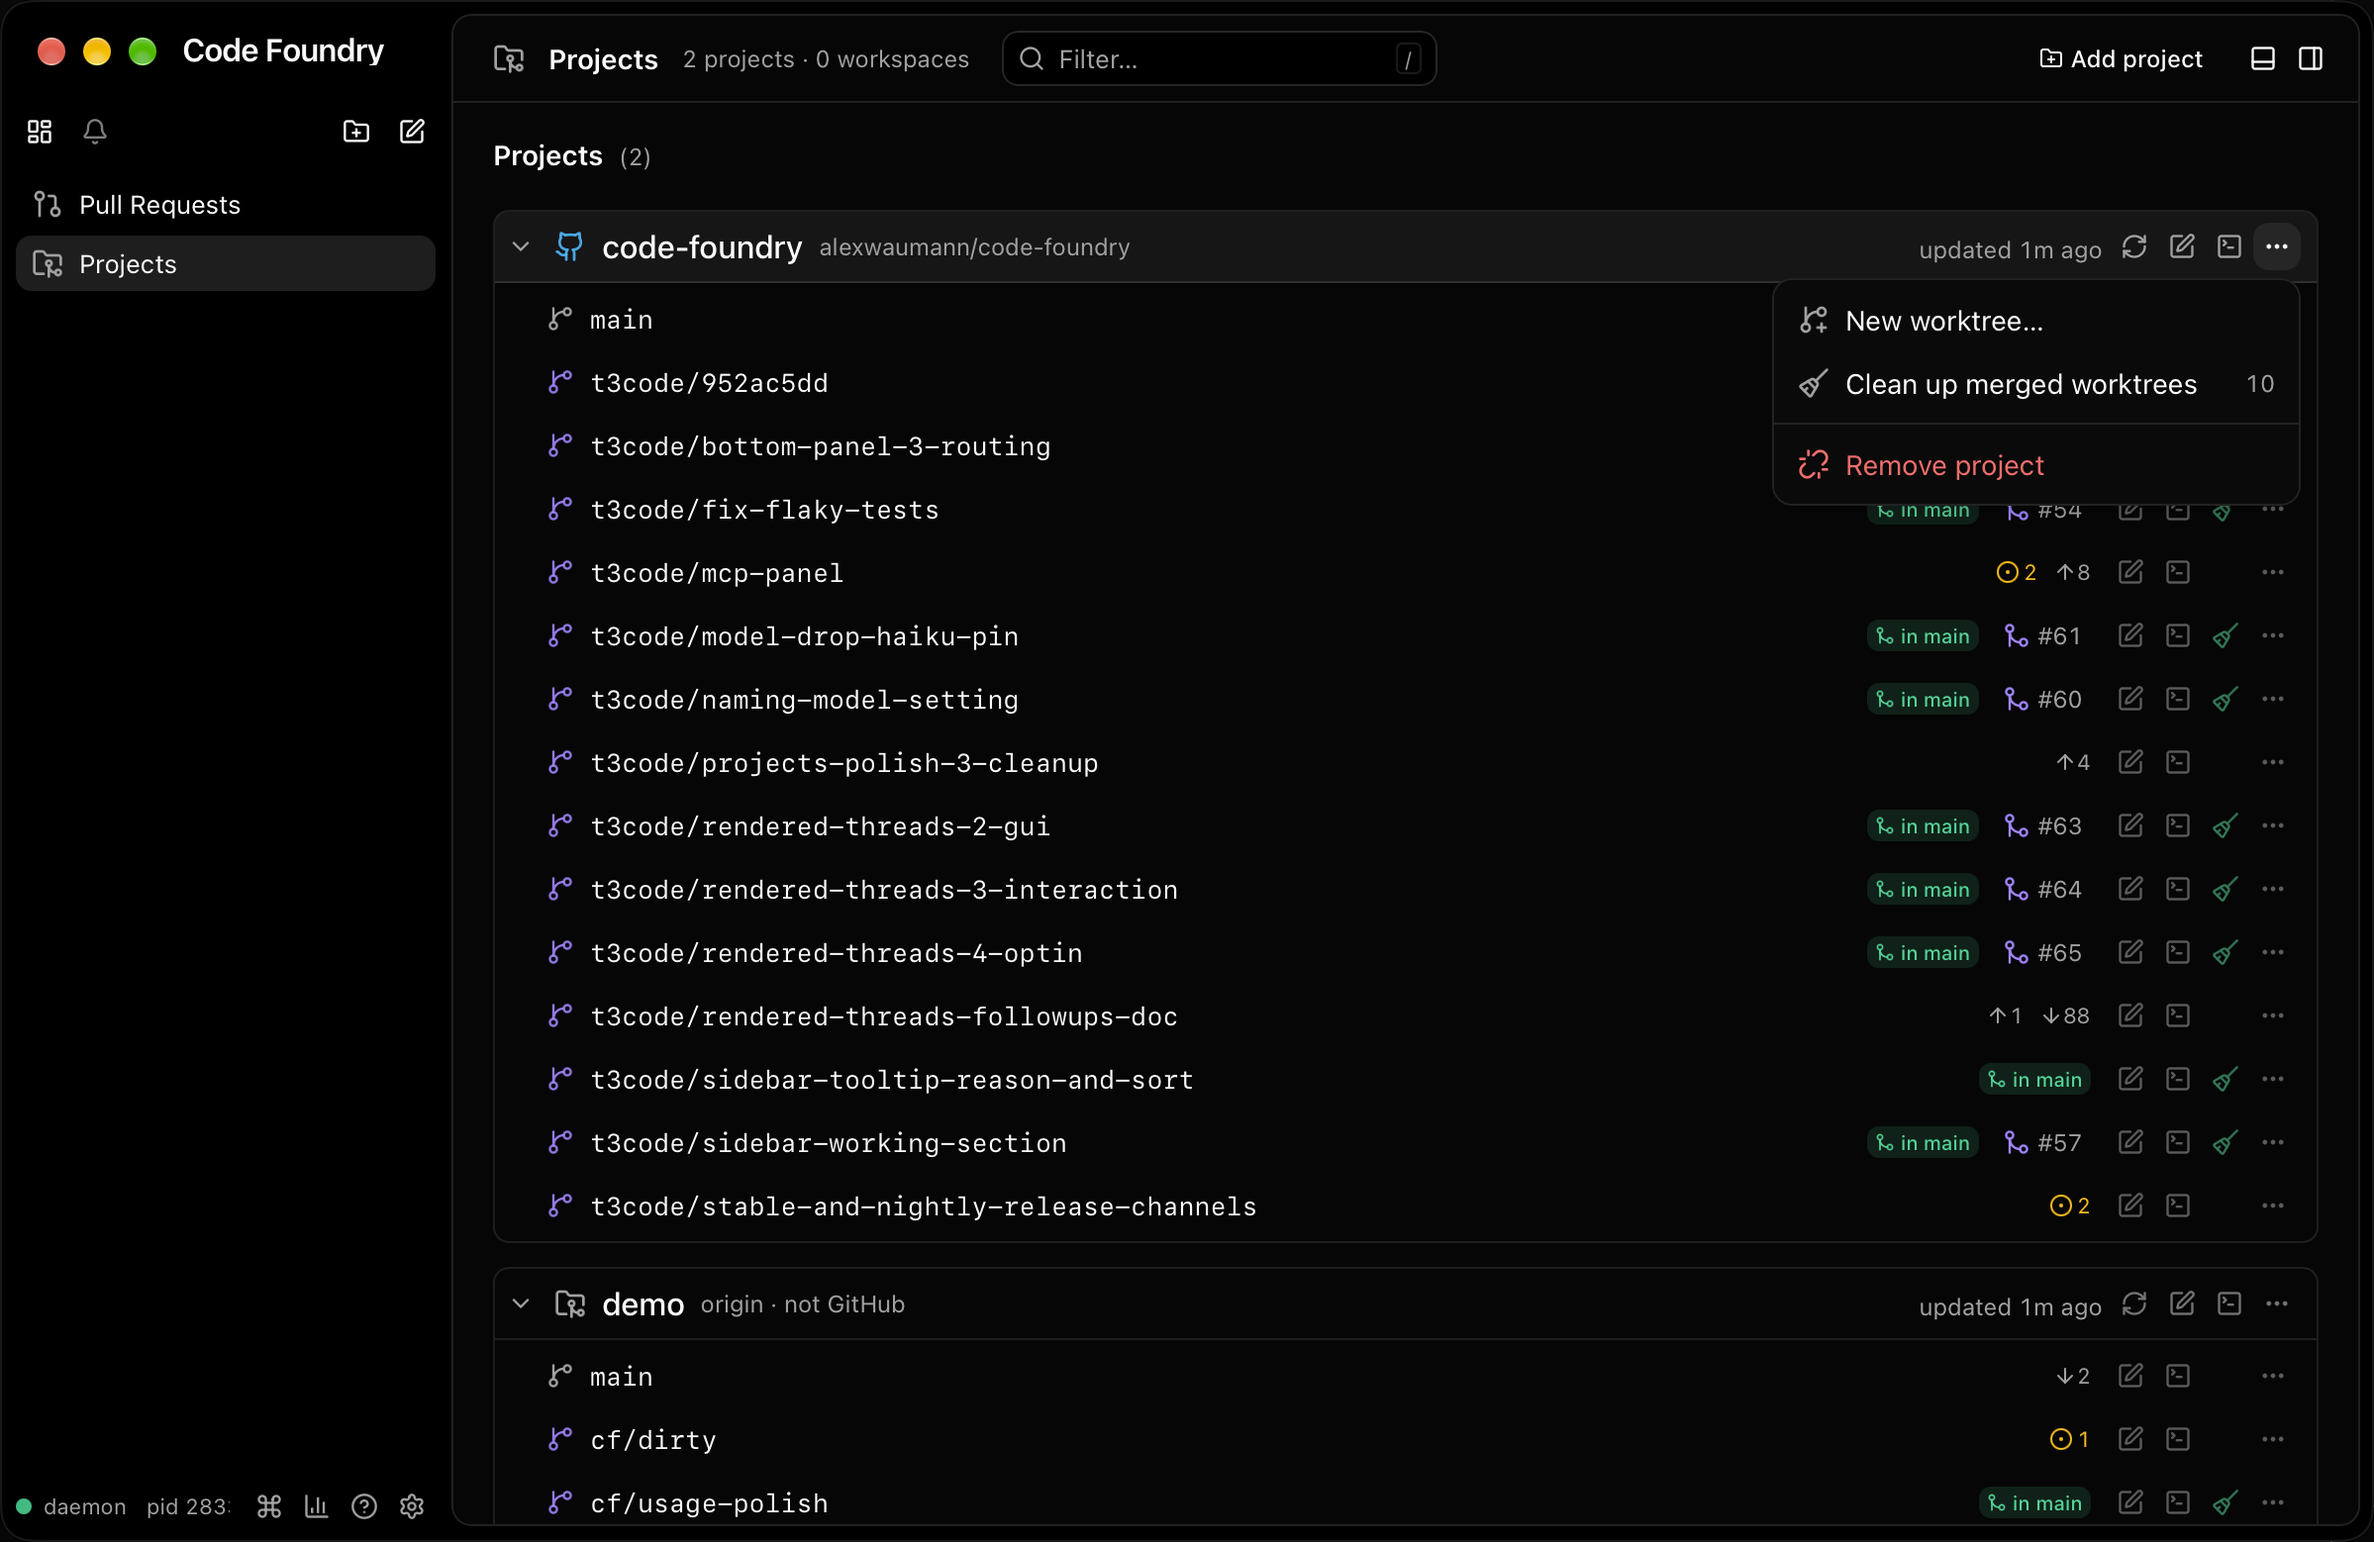
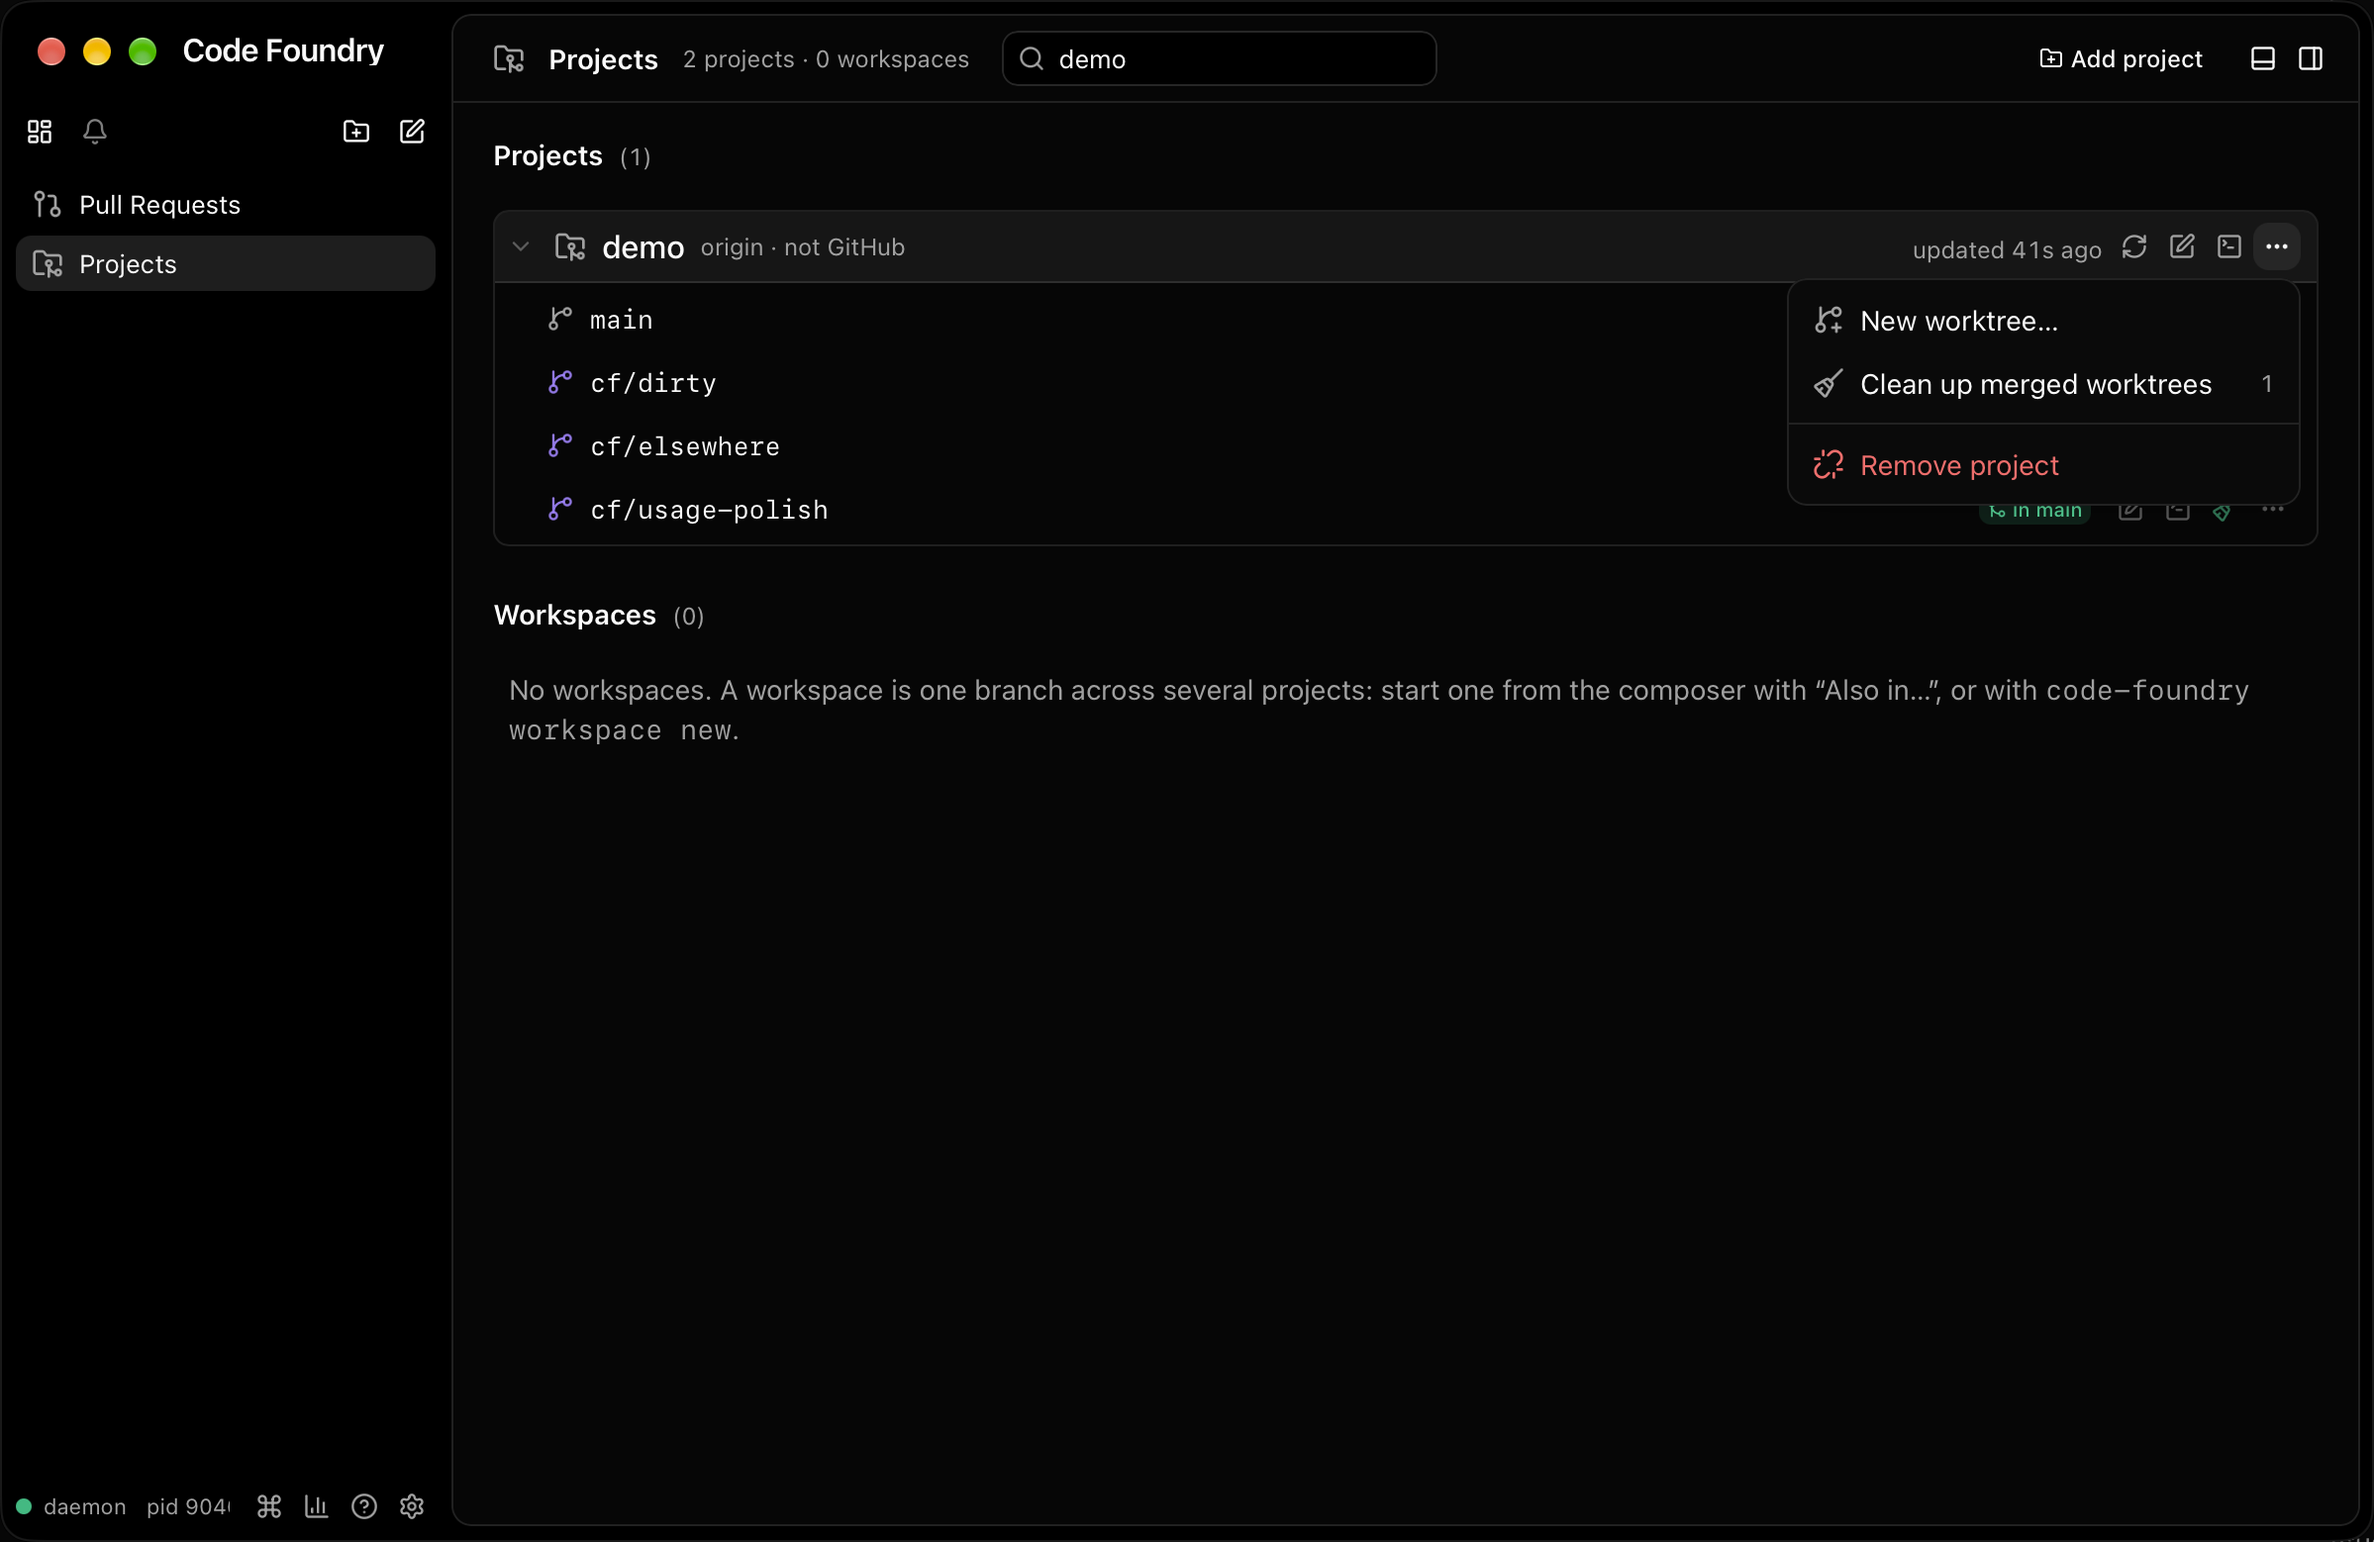
docs: projects polish 3 screenshots retaken: only worktrees under the worktrees directory are tagged

diff --git a/docs/notes/projects-polish-3.md b/docs/notes/projects-polish-3.md
@@ -116,4 +116,4 @@ failed fetch removes nothing, prompts), `lib/projects.test.ts` (`isCleanable`), 
 worktrees directory, broom removes it after a confirm naming the
 branch, menu count and disabled at 0, a terminal holds it, aligned columns).
 
-Screenshots (real app, isolated `CODE_FOUNDRY_HOME`): `docs/notes/projects-polish-3/`.
+Screenshots (real app, isolated `CODE_FOUNDRY_HOME`, after narrowing the rule): `docs/notes/projects-polish-3/`. This repository's T3 Code worktrees show no tag; the scratch `demo` project's `cf/usage-polish` (made through `repo.worktree.new`, under the isolated worktrees directory, itself behind the `/tmp` symlink) is tagged, and `cf/elsewhere` (merged and clean, outside it) is not.
